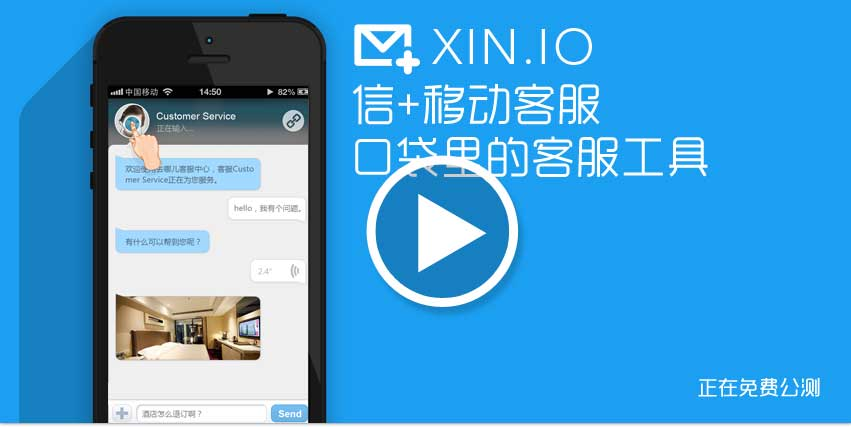
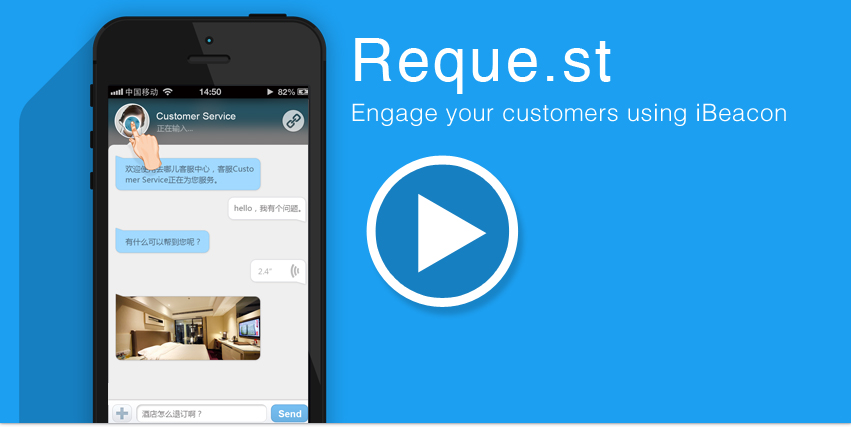
Modify home page for demo

diff --git a/client/main.html b/client/main.html
@@ -22,9 +22,9 @@
           <img src="assets/register_middle.png" />
         </a>
       </div>
-      <div style="font-size: 24px; color: #1c9ff1; margin-top: 40px;">口袋里的客服工具，让您随时随地为客户服务！</div>
-      <div style="font-size: 20px; color: #7f7f7f; margin-top: 20px;">不到1分钟您就能轻松的完成产品配置，只需将代码植入手机APP，即可轻松享用。</div>
-      <div style="font-size: 20px; color: #7f7f7f; margin-top: 10px;">这，就是信+，一个基于智能手机APP的客服工具。</div>
+      <div style="font-size: 24px; color: #1c9ff1; margin-top: 40px;">From Shelves to Mobile with iBeacon</div>
+      <div style="font-size: 20px; color: #7f7f7f; margin-top: 20px;">Build an iBeacon App in just 1 minute!!</div>
+      <div style="font-size: 20px; color: #7f7f7f; margin-top: 10px;"></div>
       <div>
         <img src="/assets/anytime.jpg" style="width: 292px; height: 133px; margin-top: 40px;">
         <img src="/assets/transform.jpg" style="width: 393px; height: 133px; margin-left: 22px; margin-right: 22px; margin-top: 40px;">
